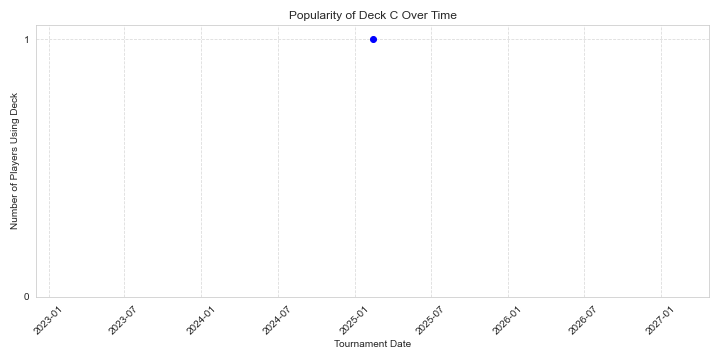
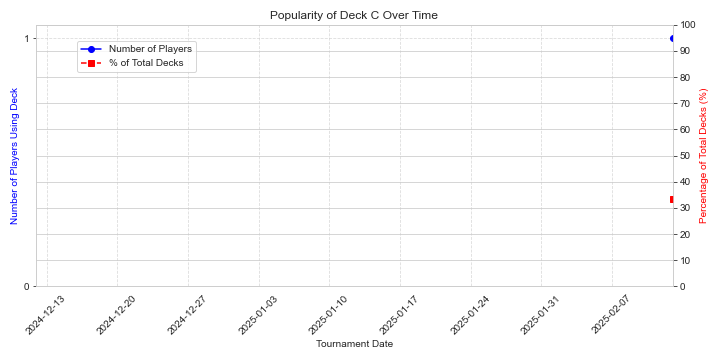
graphing even x axis grid lines

diff --git a/JG_analysis.py b/JG_analysis.py
@@ -10,7 +10,7 @@ import pandas as pd
 import matplotlib.pyplot as plt
 import seaborn as sns
 import pandas as pd
-
+import matplotlib.dates as mdates
 
 
 #%% Load Results
@@ -174,28 +174,48 @@ else:
 # Ensure 'Date' is in datetime format
 complete_standings['Date'] = pd.to_datetime(complete_standings['Date'])
 
+# Get overall min and max dates
+min_date = complete_standings['Date'].min()
+max_date = complete_standings['Date'].max()
+
 # Count number of times each deck type was played at each tournament
 deck_trends = complete_standings.groupby(['Date', 'Deck']).size().reset_index(name='Count')
+
+total_decks_per_tournament = complete_standings.groupby('Date').size().reset_index(name='Total Decks')
+deck_trends = deck_trends.merge(total_decks_per_tournament, on='Date', how='left')
+deck_trends['Percentage'] = (deck_trends['Count'] / deck_trends['Total Decks']) * 100
 
 # Set plot style
 sns.set_style("whitegrid")
 
 # Loop through each deck and create a separate graph
 for deck in deck_trends['Deck'].unique():
-    plt.figure(figsize=(10, 5))
     deck_data = deck_trends[deck_trends['Deck'] == deck]
     
-    plt.plot(deck_data['Date'], deck_data['Count'], marker='o', linestyle='-', color='b')
-    plt.xlabel("Tournament Date")
-    plt.ylabel("Number of Players Using Deck")
+    fig, ax1 = plt.subplots(figsize=(10, 5))
+    ax2 = ax1.twinx()
+    
+    ax1.plot(deck_data['Date'], deck_data['Count'], marker='o', linestyle='-', color='b', label="Number of Players")
+    ax2.plot(deck_data['Date'], deck_data['Percentage'], marker='s', linestyle='--', color='r', label="% of Total Decks")
+    
+    ax1.set_xlabel("Tournament Date")
+    ax1.set_ylabel("Number of Players Using Deck", color='b')
+    ax2.set_ylabel("Percentage of Total Decks (%)", color='r')
+    
+    ax1.set_yticks(range(0, max(deck_data['Count']) + 1))  # Ensure only integer values on primary y-axis
+    ax2.set_yticks(range(0, 101, 10))  # Ensure percentage scale from 0 to 100 with steps of 10
+    
+    ax1.set_xlim(min_date, max_date)  # Set x-axis limits to dataset-wide min and max dates
+    ax1.xaxis.set_major_locator(mdates.DayLocator(interval=7))  # Ensure uniform x-axis grid lines every 7 days
+    ax1.xaxis.set_major_formatter(mdates.DateFormatter('%Y-%m-%d'))
+    ax1.tick_params(axis='x', rotation=45)
+    
     plt.title(f"Popularity of {deck} Over Time")
-    plt.xticks(rotation=45)
-    plt.yticks(range(0, max(deck_data['Count']) + 1))  # Ensure only integer values on y-axis
-    plt.grid(True, linestyle='--', alpha=0.7)
+    ax1.grid(True, linestyle='--', alpha=0.7)
+    
+    fig.legend(loc="upper left", bbox_to_anchor=(0.1, 0.9))
     plt.tight_layout()
     
     # Save each plot to a file
     plt.savefig(f"deck_popularity_{deck.replace(' ', '_')}.png")
     plt.show()
-
-plt.show()
